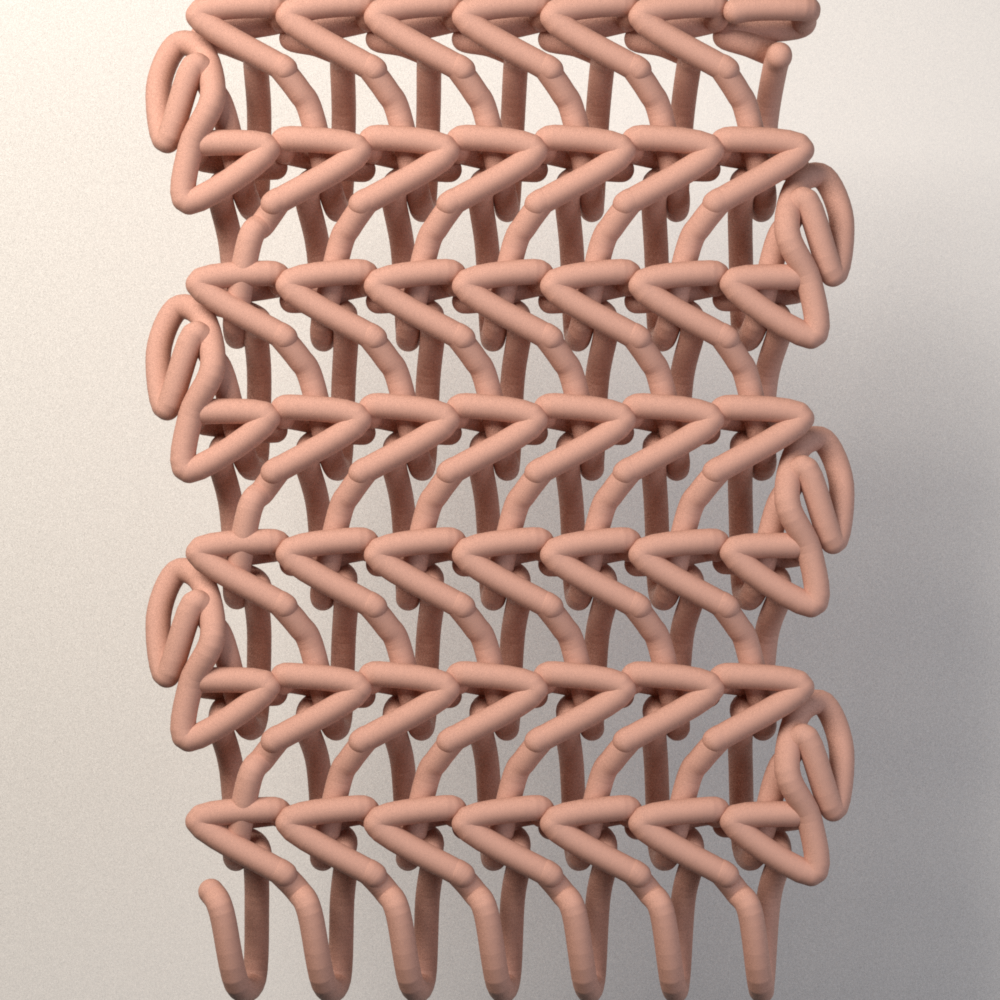
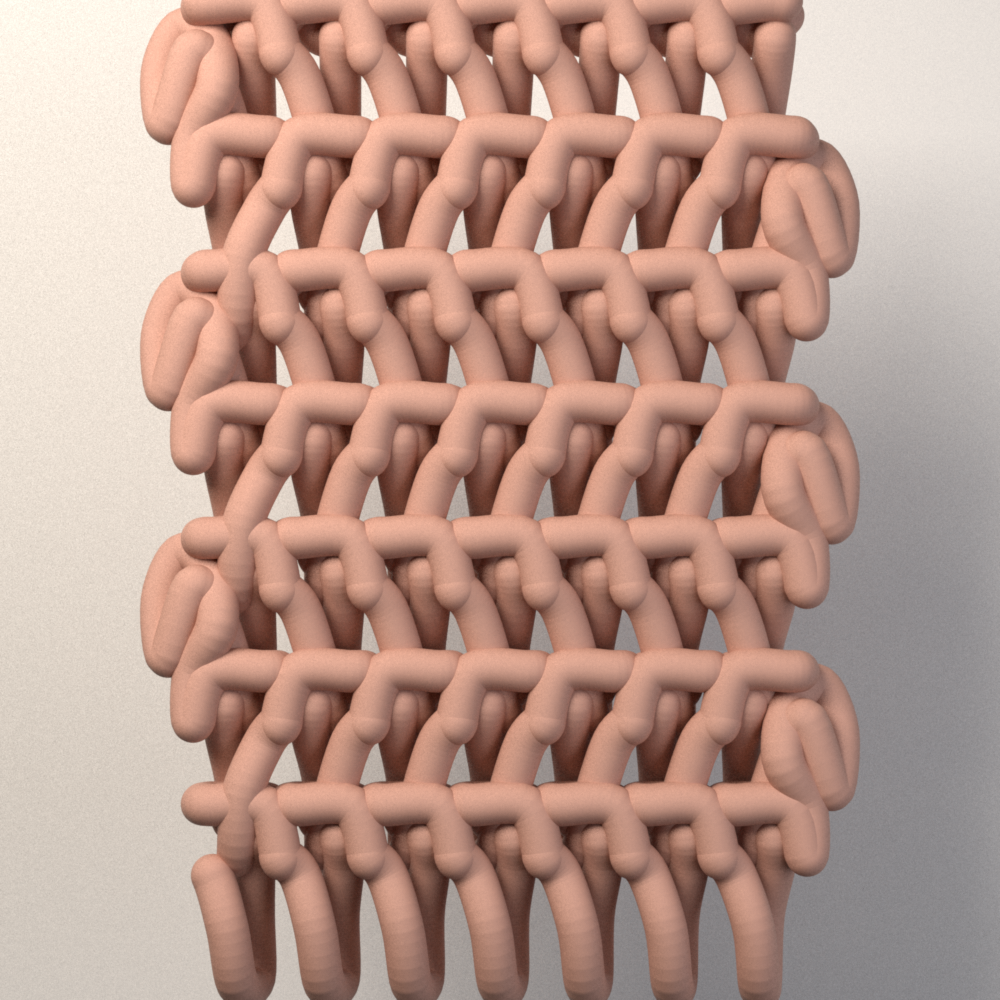
Stitch morphology: remove the return sweep, bundle the post, close the row gap
Three more shape defects, each found by rendering the validated geometry and each fixed
in the topology rather than in the lighting.

14. The arrowheads were never the V. The top loop was traversed out-and-home finishing at
    its LEFT end, so the yarn then swept the full width of the cell to reach the next
    stitch. That sweep, paired with the back leg, drew a row of arrowheads across every
    row. The loop is now traversed so it finishes at the right-hand end, next to where
    the following stitch begins, and the sweep is gone. The point set stays symmetric
    about the cell centre, so the row above still finds the loops in the same place
    whichever way this row was worked; only the order of travel mirrors.

15. The top loop was a wedge: sloped legs meeting at a point. A crochet top is a
    flattened loop whose legs run level and parallel, separated through the fabric rather
    than in height and joined by a rounded turn.

16. The post's two strands were splayed in x and the post began partway up the row, so it
    rendered as a thin J-hook hanging from a rail with an empty band between every pair of
    rows. They are held close so they read as one column, and the post starts just above
    the V it was worked into.

All four scales still pass: 4x5, 6x8, 10x12 and 14x16, every stitch linked at +/-1, every
stitch shaped like a half double, closest approach 2.06-5.49mm against a 1.50mm floor,
within-row joins 0.007mm.
[…]

diff --git a/brambleloop/src/brambleloop/visual/crochet_topology.py b/brambleloop/src/brambleloop/visual/crochet_topology.py
@@ -200,18 +200,23 @@ def _hdc_cell(L: float, H: float, D: float, direction: int, loop_target: str,
         # millimetres of yarn, not a fraction of H: ratios describe centre paths and are
         # silent about thickness, so a dive sized purely from H passed within 0.53mm of a
         # 2mm strand -- through it, not around it.
-        ("insert",       (c - 0.16 * L, y0 + 0.40 * H, enter_z + D * 0.50)),
+        ("insert",       (c - 0.11 * L, y0 + 0.16 * H, enter_z + D * 0.50)),
         ("through",      (c - 0.02 * L, y0 + 0.03 * H - yarn, enter_z + D * 0.08)),
         ("behind",       (c + 0.10 * L, y0 - 0.04 * H - yarn, enter_z - D * 1.25)),
-        ("emerge",       (c + 0.15 * L, y0 + 0.40 * H, enter_z - D * 0.95)),
+        ("emerge",       (c + 0.11 * L, y0 + 0.16 * H, enter_z - D * 0.95)),
 
         # --- the post: upright, not leaning ------------------------------------
+        # The two strands of the post are held close in x so they read as one column. Splayed
+        # apart they rendered as a thin J-hook hanging off a rail rather than the upright
+        # post that gives a half double its height. The post also starts low, just above the
+        # V it was worked into, because starting it partway up the row left an empty band
+        # between every pair of rows in a fabric that should be dense.
         # Held to the side of the cell centre. Dead centre is where the NEXT row's hook
         # comes down, and the post's crown sat 0.3mm from it -- the two stitches occupied
         # the same millimetre of space and only relaxation pulled them apart afterwards.
         # Clearance belongs in the construction; relaxation is for contact, not for repair.
-        ("rise",         (c + 0.18 * L, y0 + 0.74 * H, -D * 0.30)),
-        ("crown",        (c + 0.20 * L, yt - 0.20 * H, +D * 0.14)),
+        ("rise",         (c + 0.15 * L, y0 + 0.62 * H, -D * 0.30)),
+        ("crown",        (c + 0.16 * L, yt - 0.16 * H, +D * 0.14)),
 
         # --- yarn over and pull through all three loops -------------------------
         ("close_near",   (c + 0.16 * L, yt - 0.14 * H, -D * 0.48)),
@@ -225,11 +230,27 @@ def _hdc_cell(L: float, H: float, D: float, direction: int, loop_target: str,
         # Symmetric about the centre, so they sit at the same fabric x either way. They run
         # in opposite directions -- out along the back, home along the front -- which is why
         # closing the V into a ring must not reverse one of them.
-        ("back_loop",    (c - 0.365 * L, yt + 0.02 * H, -D * 0.44)),
-        ("back_loop_e",  (c + 0.365 * L, yt + 0.06 * H, -D * 0.40)),
-        ("v_turn",       (c + 0.445 * L, yt + 0.10 * H, +D * 0.02)),
-        ("front_loop",   (c + 0.365 * L, yt + 0.13 * H, +D * 0.44)),
-        ("front_loop_e", (c - 0.365 * L, yt + 0.09 * H, +D * 0.46)),
+        # A flattened loop lying horizontally, not a wedge. The legs run level and
+        # parallel, separated through the fabric rather than in height, joined by a rounded
+        # turn. Sloped legs meeting at a point rendered as a row of arrowheads.
+        #
+        # The loop is traversed OUT to the left and HOME to the right, so it finishes at the
+        # right-hand end -- next to where the following stitch begins. Traversed the other
+        # way it finished at the left and the yarn then had to sweep the full width of the
+        # cell to reach the next stitch. That sweep, paired with the back leg, is what drew
+        # the arrowheads: they were never the V, they were the yarn travelling back across a
+        # stitch it had already finished.
+        #
+        # The point set stays symmetric about the cell centre, so the row above still finds
+        # the loops in the same place whichever way this row was worked. Only the order of
+        # travel mirrors.
+        ("back_loop",    (c + 0.300 * L, yt + 0.045 * H, -D * 0.42)),
+        ("back_loop_e",  (c - 0.300 * L, yt + 0.055 * H, -D * 0.40)),
+        ("v_turn_a",     (c - 0.400 * L, yt + 0.060 * H, -D * 0.22)),
+        ("v_turn",       (c - 0.435 * L, yt + 0.065 * H, +D * 0.02)),
+        ("v_turn_b",     (c - 0.400 * L, yt + 0.070 * H, +D * 0.26)),
+        ("front_loop",   (c - 0.300 * L, yt + 0.075 * H, +D * 0.42)),
+        ("front_loop_e", (c + 0.300 * L, yt + 0.065 * H, +D * 0.44)),
         ("away",         (1.00 * L, yt - 0.30 * H, +D * 0.46)),
     ]
     names = [n for n, _ in p]
